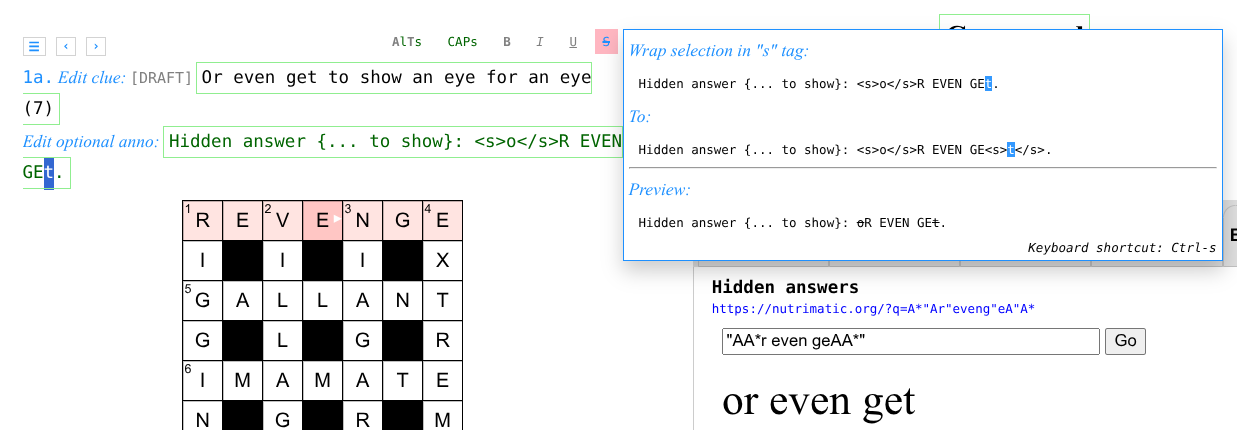
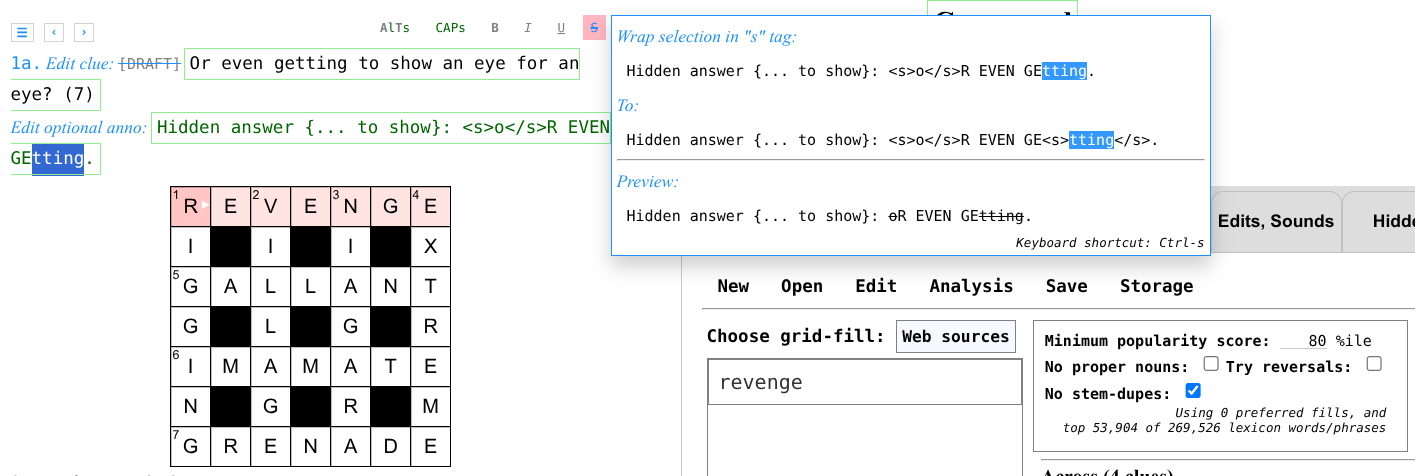
v0.99.1, October 28, 2025
### Minor update: Exet v0.99.1, October 28, 2025

- Increase the font size in the format panel a bit. Update its screenshot.

diff --git a/exet.css b/exet.css
@@ -241,6 +241,7 @@
   top: 4px;
   border: 1px solid dodgerblue;
   box-sizing: border-box;
+  font-size: 12px;
   color: black;
   display: none;
   box-shadow: 0px 8px 16px 0px rgba(0,0,0,0.2);

diff --git a/CHANGELOG.md b/CHANGELOG.md
@@ -1,5 +1,9 @@
 # Changelog
 
+### Minor update: Exet v0.99.1, October 28, 2025
+
+- Increase the font size in the format panel a bit. Update its screenshot.
+
 ### Exet v0.99, October 28, 2025
 
 - Move the prev/next clue buttons to go above the clue-editing panel. This
